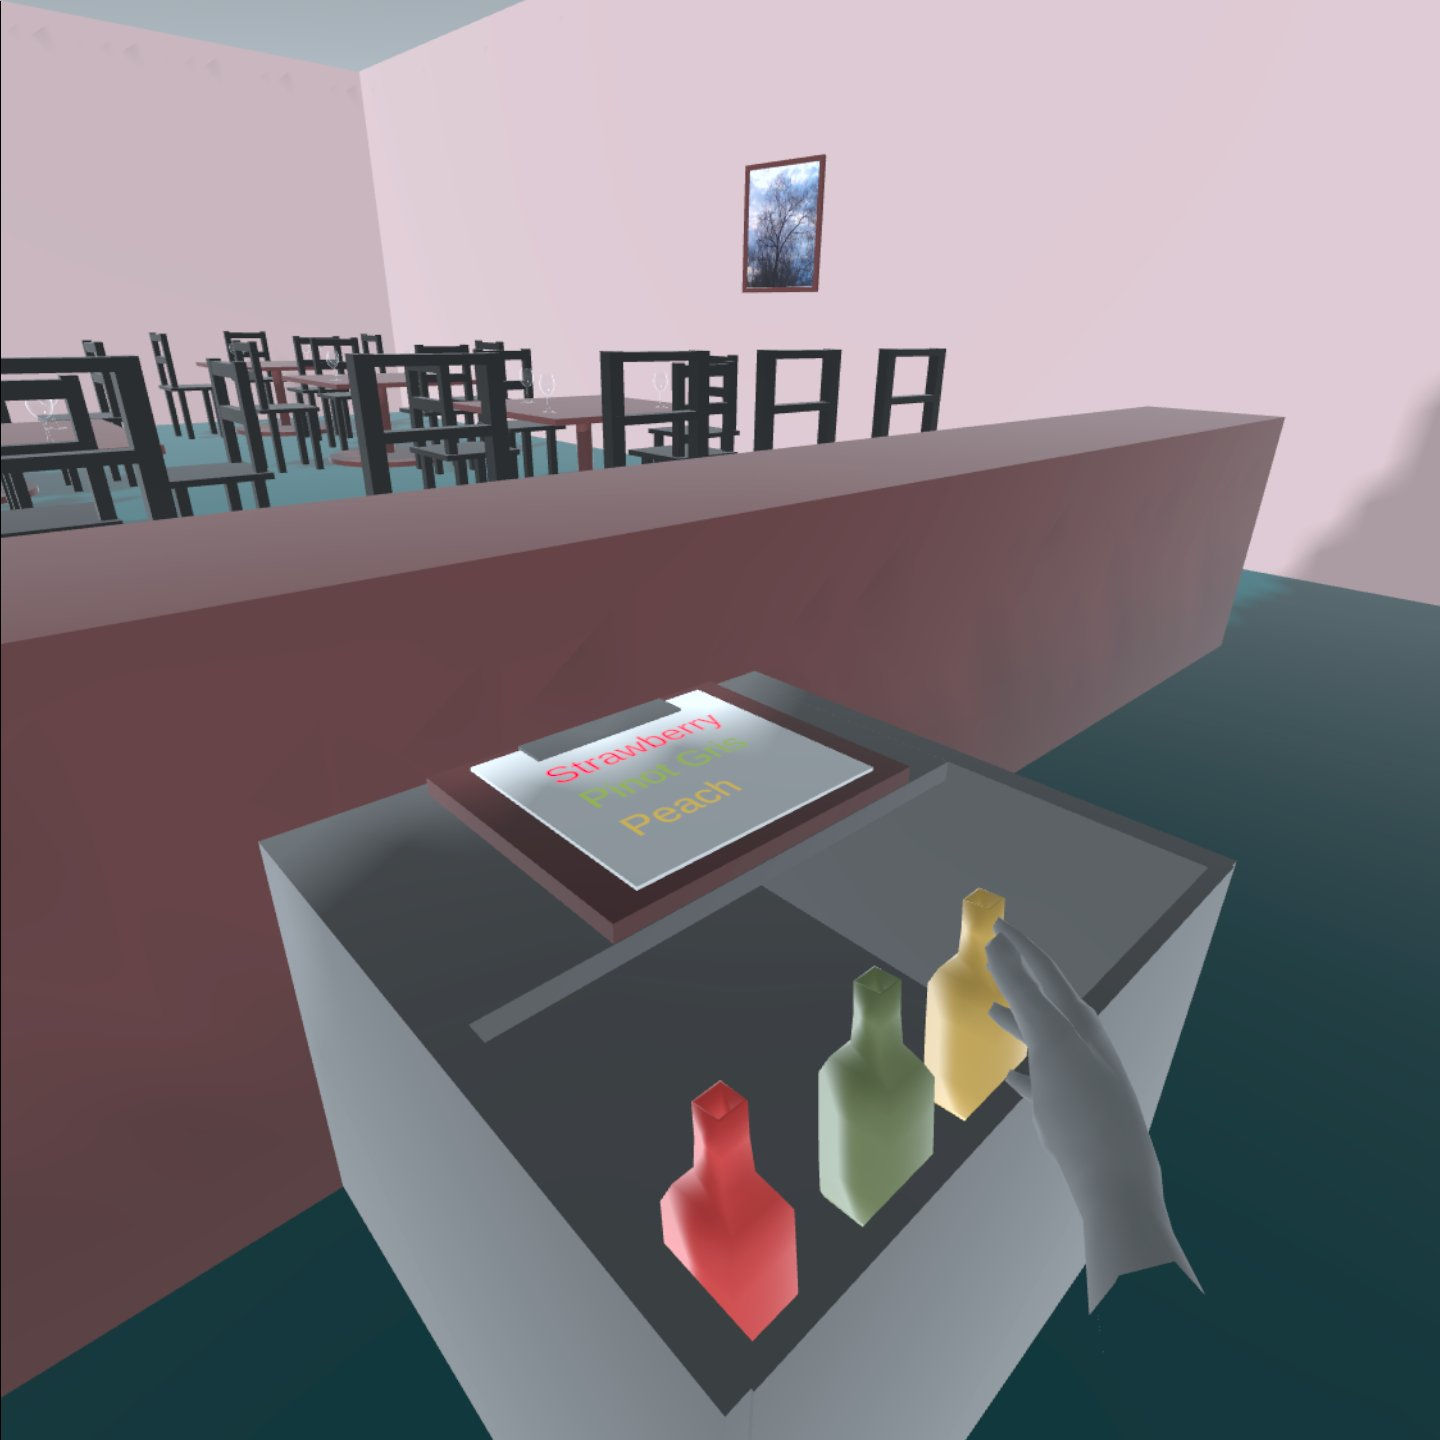
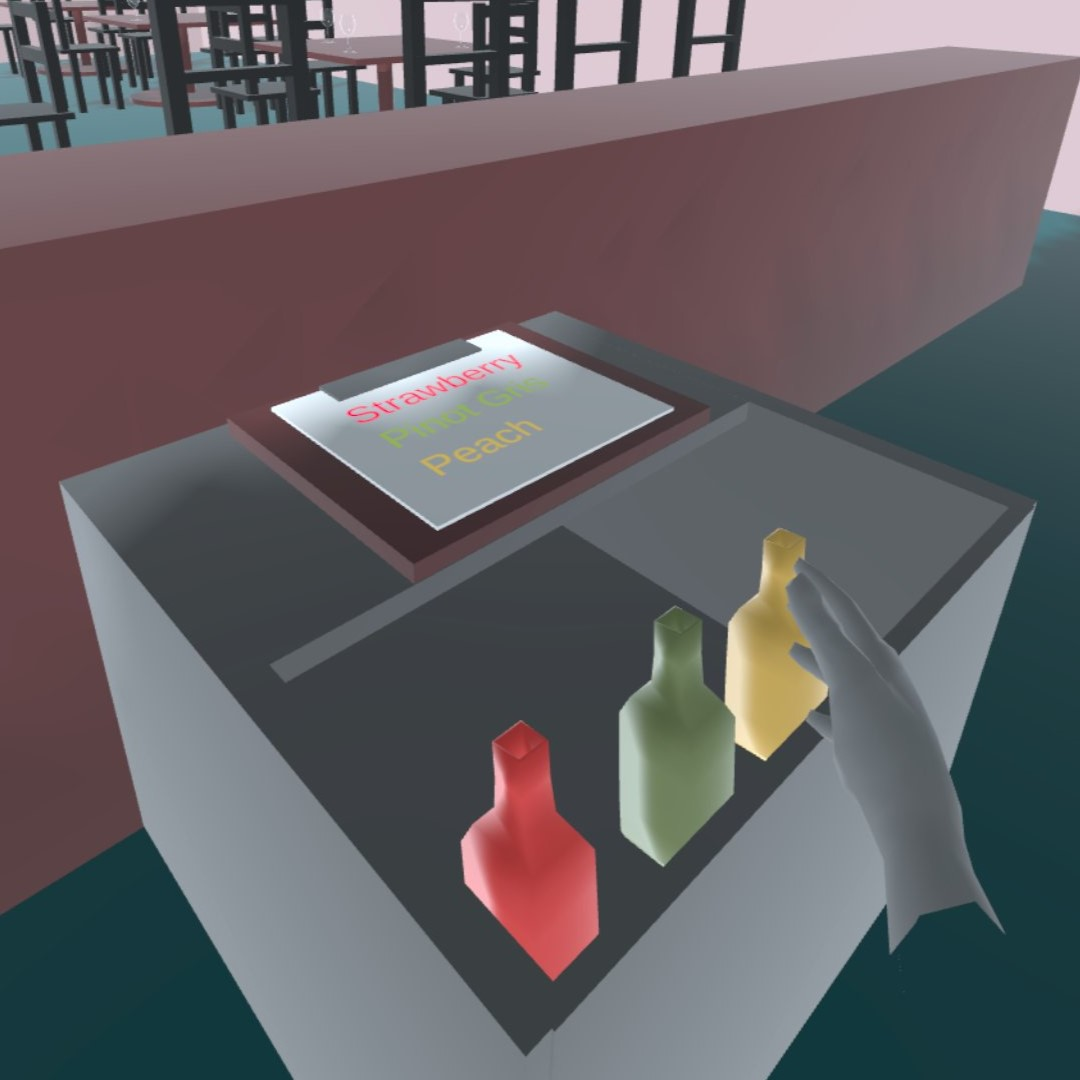
More Portfolio Work
Started adding descriptions and images for the Unity Section. More JavaScript and CSS for buttons and videos.

diff --git a/Portfolio.html b/Portfolio.html
@@ -1,7 +1,7 @@
 <!DOCTYPE html>
 <html lang="en">
 <head>
-	<title>Megan LaValley's Portfolio</title>
+	<title>Megan LaValley</title>
 	<link rel="stylesheet" type="text/css" href="meganlavalley.css"/>
 	<!-- link to external style sheet -->
 	<meta name="viewport" content="width=device-width, initial-scale=1.0"> 
@@ -44,11 +44,22 @@
 
 	<div id="Unity">
 	 <h2 class="nameOfPage">Unity</h2>
+	 <p class="hiddenForSpace">I think <br> coding is fun.</p>
+	 <button class="portfolio" onclick="Catastrophe()">Cat-astrophe!</button>
+	 <button class="portfolio" onclick="WineTime()">Wine-Time</button>
+	 <button class="portfolio" onclick="Wolfjam()">Wolfjam Hackathon</button>
 	 <!-- The title of the webpage the user is currently on -->
-	   <section class="section1">
+	   <section id=showCatSection class="section1">
 	   <!-- The first section of 3 in the main part of the webpage -->
 	     <h3 class="subHeading1">Cat-astrophe!</h3>
-		 
+		 <p class="main"><i>Cat-astrophe!</i> was made in April of 2023 and it is 
+			a VR Game made in Unity (2021.3.17f1). <i>Cat-astrophe!</i> was an independent 
+			project <br> that was made for Megan's first class working in Unity.
+			For this game, Megan used an older version of unity so she needed 
+			to manually create <br> the locomotion system for player movement.
+			Megan had created many assets using unity primitives including
+			the furniture,<br> the litter box (and everything in it), and the remote. 
+			All other small assets came from TurboSquid.</p>
 		 <button class="portfolio" onclick="photoCat()">Photo Gallery</button>
 		 <button class="portfolio" onclick="videoCat()">Video Gallery</button>
 		 
@@ -92,6 +103,81 @@
 			</div>
 			<div class="clearfix"></div>
 	   </section>
+	   <section id=showWineSection class="section1">
+		<!-- The first section of 3 in the main part of the webpage -->
+		  <h3 class="subHeading1">Wine Time</h3>
+		  <p class="main"><i>Wine-Time</i> was made in October and November of 2023 and it is 
+			a VR Game made in Unity (2021.3.17f1). <i>Wine-Time</i> was an independent 
+			project <br> that was made for Megan's Serious Games class. <i>Wine-Time</i> is a winery 
+			simulator where the player would serve the customers and try to pour the right amount to
+			receive a better review. At the end of the game the review is calculated and if you receive 
+			more than 3 stars, you get to keep your job. For this game, Megan used an older version of Unity 
+			so she used <br> the locomotion system she had created previously in <i>Cat-astrophe!</i> for player movement.
+			Megan had created all of the assets for <i>Wine-Time</i> except for the glasses (from TurboSquid) and the music 
+			(from the Unity assets Store).</p>
+		  <button class="portfolio" onclick="photoWine()">Photo Gallery</button>
+		  <button class="portfolio" onclick="videoWine()">Video Gallery</button>
+		  
+		  <p class="hiddenForSpace">I think <br> coding is fun.</p>
+			  <div id="photoWineGallery">
+				<p class="main">All pictures seen here are from mid-process. The final product only had slight changes like the 
+					environment having a roof, minor adjustments to customer text and scoring system.
+				</p>
+				 <div id="wine1pic" class="outerLayer" onclick="showWine2()">
+				  <div  class="gallery">
+						   <img src="wine1.jpg" alt="A pic from Wine-Time.">
+					 <div class="imageDescription"> The first customer and their order. Megan decided to create a cat customer to
+						slightly reference her time on <i>Cat-astrophe!</i>. Megan made everything in this scene except the glasses.
+						Even the pictures on the wall are from photo's she had taken.
+					 </div>
+				   </div>
+				 </div>
+				 <div id="wine2pic" class="outerLayer"onclick="showWine3()">
+				   <div class="gallery">
+						   <img src="wine2.jpg" alt="A pic from Wine-Time.">
+					 <div class="imageDescription">This is a capture of the environment. The objects in the room were mainly made to
+						be entertaining for the player. Megan wanted players' to be able to grab objects and have fun in the room 
+						for if they wanted a break from serving wine.
+					 </div>
+				   </div>
+				 </div>
+				 <div id="wine3pic" class="outerLayer" onclick="showWine4()">
+				   <div  class="gallery">
+						   <img src="wine3.jpg" alt="A pic from Wine-Time.">
+					 <div class="imageDescription"> Displayed here is another view of the environment where you can see shelves that held wine bottles.
+						This was made purely for the players' enjoyment. Many players loved just going to the back and playing with the wine on these shelves.
+					 </div>
+				   </div>
+				 </div>
+				 <div id="wine4pic" class="outerLayer" onclick="showWine1()">
+				   <div  class="gallery">
+						   <img src="wine4.jpg" alt="A pic from Wine-Time.">
+					 <div class="imageDescription">This is the wine cooler. Here players would grab a bottle to pour Wine into the players' glass.
+						Megan coded the wine to go back into the bottle whenever it hit a surface or glass. This way the player would not need to 
+						worry about running out of wine.
+					 </div>
+				 </div>
+			 </div>
+			 </div>
+			 <div class="clearfix"></div>
+			 <div id="videoWineGallery">
+			 </div>
+			 <div class="clearfix"></div>
+		</section>
+		<section id=showWolfSection class="section1">
+			<!-- The first section of 3 in the main part of the webpage -->
+			  <h3 class="subHeading1">Wolfjam Hackathon</h3>
+			  <p class="main"></p>
+			  
+			  <p class="hiddenForSpace">I think <br> coding is fun.</p>
+				 <div class="clearfix"></div>
+				 <div class="outerLayerVideo">
+						<video alt="A video of the spot the difference minigame." width="100%" controls>
+							<source src="SpotTheDifference.mp4" type="video/mp4">
+						</video>
+				</div>
+				 <div class="clearfix"></div>
+			</section>
 	   </div>
 
 	   <div id="Unreal">

diff --git a/meganlavalley.js b/meganlavalley.js
@@ -174,7 +174,48 @@ function workFunction(){
 
 //FUNCTIONS FOR SWITCHING BETWEEN RESUME PIECES (FINISHED)
 
-//UNHIDE AND HIDE GALLERY IMAGES
+//BUTTONS TO SHOW EACH PORTFOLIO SHOWPIECE
+
+function Catastrophe(){
+	if (document.getElementById("showCatSection").style.display === "block"){
+		document.getElementById("showWineSection").style.display = "none";
+		document.getElementById("showCatSection").style.display = "none";
+		document.getElementById("showWolfSection").style.display = "none";
+	}
+	else{
+		document.getElementById("showCatSection").style.display = "block";
+		document.getElementById("showWineSection").style.display = "none";
+		document.getElementById("showWolfSection").style.display = "none";
+	}
+}
+
+function WineTime(){
+	if (document.getElementById("showWineSection").style.display === "block"){
+		document.getElementById("showWineSection").style.display = "none";
+		document.getElementById("showCatSection").style.display = "none";
+		document.getElementById("showWolfSection").style.display = "none";
+	}
+	else{
+		document.getElementById("showWineSection").style.display = "block";
+		document.getElementById("showCatSection").style.display = "none";
+		document.getElementById("showWolfSection").style.display = "none";
+	}
+}
+function Wolfjam(){
+	if (document.getElementById("showWolfSection").style.display === "block"){
+		document.getElementById("showWineSection").style.display = "none";
+		document.getElementById("showCatSection").style.display = "none";
+		document.getElementById("showWolfSection").style.display = "none";
+	}
+	else{
+		document.getElementById("showWolfSection").style.display = "block";
+		document.getElementById("showCatSection").style.display = "none";
+		document.getElementById("showWineSection").style.display = "none";
+	}
+}
+
+
+//BUTTONS TO SHOW EACH PORTFOLIO SHOWPIECE (FINISHED)
 
 //CAT-ASTROPHE GALLERY
 
@@ -233,3 +274,63 @@ function workFunction(){
 			document.getElementById("cat1pic").style.display = "none";
 		}
 
+//CAT-ASTROPHE GALLERY (FINISHED)
+
+//WINE-TIME GALLERY
+
+	//TURN ON PHOTO GALLERY
+	function photoWine(){
+		if (document.getElementById("photoWineGallery").style.display === "block"){
+			document.getElementById("videoWineGallery").style.display = "none";
+			document.getElementById("photoWineGallery").style.display = "none";
+		}
+		else{
+			document.getElementById("photoWineGallery").style.display = "block";
+			document.getElementById("videoWineGallery").style.display = "none";
+		}
+	}
+
+//TURN ON VIDEO GALLERY
+	function videoCat(){
+			if (document.getElementById("videoWineGallery").style.display === "block"){
+				document.getElementById("photoWineGallery").style.display = "none";
+				document.getElementById("videoWineGallery").style.display = "none";
+			}
+			else{
+				document.getElementById("photoWineGallery").style.display = "none";
+				document.getElementById("videoWineGallery").style.display = "block";
+			}
+		}
+//WINE PIC 1 GALLERY
+	function showWine1(){
+		document.getElementById("wine1pic").style.display = "block";
+		document.getElementById("wine2pic").style.display = "none";
+		document.getElementById("wine3pic").style.display = "none";
+		document.getElementById("wine4pic").style.display = "none";
+	}
+
+//WINE PIC 2 GALLERY
+	function showWine2(){
+		document.getElementById("wine2pic").style.display = "block";
+		document.getElementById("wine1pic").style.display = "none";
+		document.getElementById("wine3pic").style.display = "none";
+		document.getElementById("wine4pic").style.display = "none";
+	}
+
+//WINE PIC 3 GALLERY
+	function showWine3(){
+		document.getElementById("wine3pic").style.display = "block";
+		document.getElementById("wine2pic").style.display = "none";
+		document.getElementById("wine1pic").style.display = "none";
+		document.getElementById("wine4pic").style.display = "none";
+	}
+
+//WINE PIC 4 GALLERY
+	function showWine4(){
+		document.getElementById("wine4pic").style.display = "block";
+		document.getElementById("wine2pic").style.display = "none";
+		document.getElementById("wine3pic").style.display = "none";
+		document.getElementById("wine1pic").style.display = "none";
+	}
+
+//WINE-TIME GALLERY FINISHED

diff --git a/meganlavalley.css b/meganlavalley.css
@@ -342,20 +342,20 @@ button.portfolio:active {
 	visibility:hidden;
 }
 #Unity, #Unreal, #Websites, #Art, #Misc, #Education, #Profile, #Work, 
-#Skills, #photoCatGallery, #videoCatGallery{
+#Skills, #showWolfSection {
 	display: none;
 }
-#cat1pic{
-	display:block;
-}
-#cat2pic{
+#photoCatGallery, #videoCatGallery, #showCatSection, #cat2pic, 
+#cat3pic, #cat4pic{
 	display:none;
 }
-#cat3pic{
-	display:none;
+
+#photoWineGallery, #videoWineGallery, #showWineSection, #wine2pic, 
+#wine3pic, #wine4pic{
+	display: none;
 }
-#cat4pic{
-	display:none;
+#wine1pic #cat1pic{
+	display: block;
 }
 #logos{
 	padding-top: 5px;
@@ -366,6 +366,12 @@ a.footer{
 div.outerLayer{
 	padding: 0 6px;
 	width: 30%;
+	height:auto;
+	margin:auto;
+}
+div.outerLayerVideo{
+	padding: 0 6px;
+	width: 40%;
 	height:auto;
 	margin:auto;
 }

diff --git a/About.html b/About.html
@@ -1,7 +1,7 @@
 <!DOCTYPE html>
 <html lang="en">
 <head>
-	<title>Megan LaValley's Portfolio</title>
+	<title>Megan LaValley</title>
 	<link rel="stylesheet" type="text/css" href="meganlavalley.css"/>
 	<!-- link to external style sheet -->
 	<meta name="viewport" content="width=device-width, initial-scale=1.0"> 

diff --git a/Contact.html b/Contact.html
@@ -1,7 +1,7 @@
 <!DOCTYPE html>
 <html lang="en">
 <head>
-	<title>Megan LaValley's Portfolio</title>
+	<title>Megan LaValley</title>
 	<link rel="stylesheet" type="text/css" href="meganlavalley.css"/>
 	<!-- link to external style sheet -->
 	<meta name="viewport" content="width=device-width, initial-scale=1.0"> 

diff --git a/Resume.html b/Resume.html
@@ -1,7 +1,7 @@
 <!DOCTYPE html>
 <html lang="en">
 <head>
-	<title>Megan LaValley's Portfolio</title>
+	<title>Megan LaValley</title>
 	<link rel="stylesheet" type="text/css" href="meganlavalley.css"/>
 	<!-- link to external style sheet -->
 	<meta name="viewport" content="width=device-width, initial-scale=1.0"> 

diff --git a/index.html b/index.html
@@ -1,7 +1,7 @@
 <!DOCTYPE html>
 <html lang="en">
 <head>
-	<title>Megan LaValley's Portfolio</title>
+	<title>Megan LaValley</title>
 	<link rel="stylesheet" type="text/css" href="meganlavalley.css"/>
 	<!-- link to external style sheet -->
 	<meta name="viewport" content="width=device-width, initial-scale=1.0"> 
